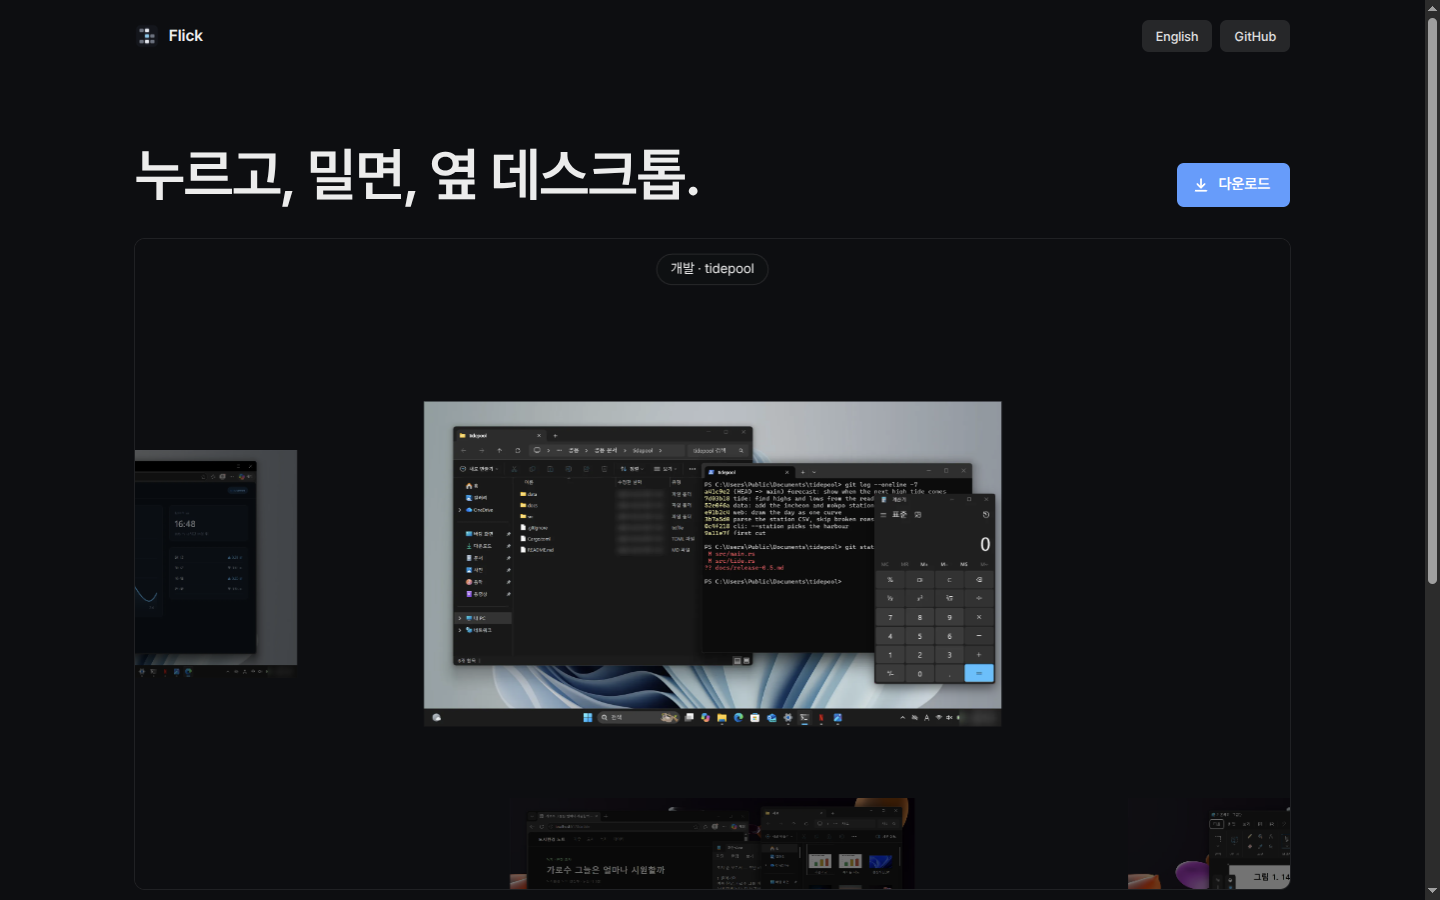
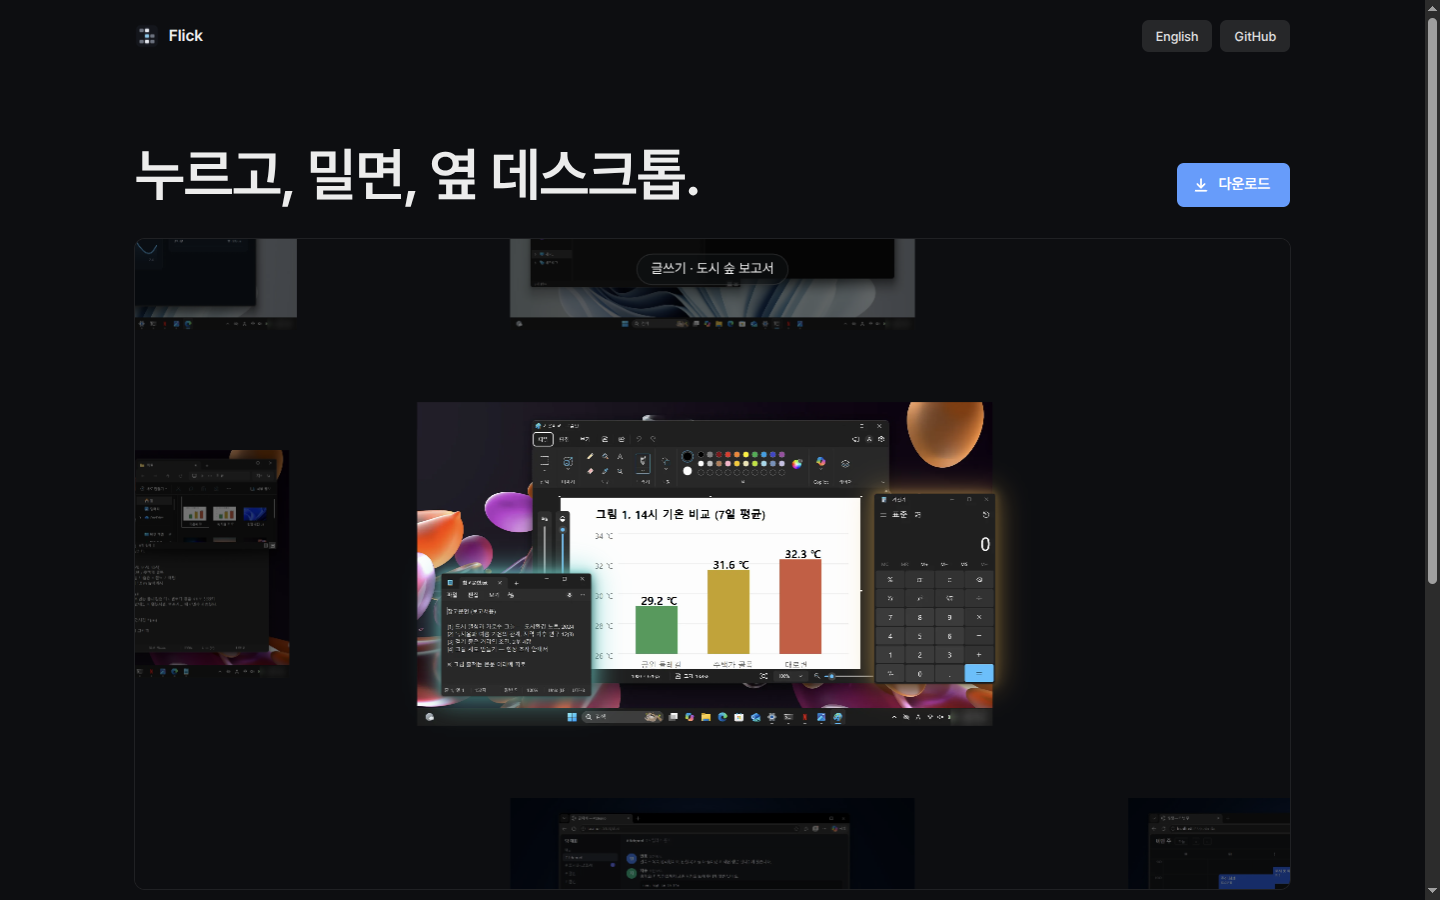
The demo goes round every desktop and shelf in a longer loop of different moves, and the window pinned to the writing shelf stays put in its teal light while that shelf slides under it

diff --git a/docs/index.html b/docs/index.html
@@ -216,22 +216,34 @@ function icon(g, app, x, y, k) {
   fill(g, x, y, k, k, k * .24, TONE[app]);
 }
 
-/* ---------- the loop: hold, flick right, right, down, let go; tap for the board; back again ---------- */
+/* ---------- the loop: every desktop and every shelf, no move made twice the same way ----------
+   A flick with the button up slides the screens full size; held, they recede and the hand drags them.
+   The writing shelf's references stay put while that shelf's desktops slide under them, and leave with it. */
 const SCRIPT = [
-  [.15, h => h.press()],
-  [.45, h => h.drag(1, 0)],
-  [.85, h => h.drag(1, 0)],
-  [1.4, h => h.drag(0, 1)],
-  [2.0, h => h.release()],
-  [2.75, h => h.tap()],
-  [5.2, h => h.tap()],
-  [5.75, h => h.press()],
-  [6.05, h => h.drag(0, -1)],
-  [6.6, h => h.drag(-1, 0)],
-  [7.0, h => h.drag(-1, 0)],
-  [7.5, h => h.release()],
+  [.4, h => h.drag(1, 0)],                       // a quick flick: building, to the preview
+  [2.2, h => h.drag(1, 0)],                      // and on to the project folder
+  [3.9, h => h.press()],                         // held: the shelves recede
+  [4.3, h => h.drag(0, 1)],                      // down to the writing shelf, its references with it
+  [5.1, h => h.drag(1, 0)],                      // the desktops slide; the references stay
+  [5.9, h => h.drag(-1, 0)],                     // and back
+  [6.6, h => h.release()],
+  [8.1, h => h.tap()],                           // the board: what is pinned where
+  [11.0, h => h.tap()],
+  [12.0, h => h.drag(1, 0)],                     // full size: the chart slides in, the references stay
+  [13.8, h => h.press()],
+  [14.2, h => h.drag(0, 1)],                     // down to the team's shelf: the references go with theirs
+  [15.0, h => h.drag(1, 0)],
+  [15.7, h => h.release()],
+  [17.6, h => h.drag(-1, 0)],                    // a quick flick back to the chat
+  [19.4, h => h.drag(0, -1)],                    // up, full size: the references come back
+  [21.0, h => h.drag(-1, 0)],
+  [22.7, h => h.press()],
+  [23.1, h => h.drag(0, -1)],                    // up to building, then two desktops along it
+  [23.8, h => h.drag(-1, 0)],
+  [24.3, h => h.drag(-1, 0)],
+  [25.0, h => h.release()],
 ];
-const LOOP = 8.6;
+const LOOP = 27.5;
 /* Springs, a little under-damped: quick to go, a few per cent past, quick to settle. */
 const MOVE = { w: 24, z: .74 }, DEPTH = { w: 22, z: .7 }, BOARD = { w: 20, z: .72 };
 function spring(s, to, dt, { w, z }) {
@@ -248,7 +260,7 @@ class Hero {
     this.t = 0; this.si = 0;
     this.row = 0; this.col = 0; this.last = SHELVES.map(() => 0);
     this.sx = { p: 0, v: 0 }; this.sy = { p: 0, v: 0 }; this.tx = 0; this.ty = 0;   // where the strip is: column on the current shelf, and shelf
-    this.held = false; this.depth = { p: 0, v: 0 };
+    this.held = false; this.depth = { p: 0, v: 0 }; this.arrived = -9;   // when the pinned shelf was last come to
     this.board = { open: false, s: { p: 0, v: 0 } };
   }
   get x() { return this.sx.p; }
@@ -282,7 +294,7 @@ class Hero {
     /* The strip springs to where the hand sent it; the desktop it is nearest is the one chosen. */
     spring(this.sy, this.ty, dt, MOVE);
     const row = clamp(Math.round(this.y), 0, SHELVES.length - 1);
-    if (row !== this.row) { this.last[this.row] = this.col; this.row = row; this.col = this.last[row]; this.tx = this.col; this.sx = { p: this.col, v: 0 }; }
+    if (row !== this.row) { if (row === PINNED_ROW.row) this.arrived = this.t; this.last[this.row] = this.col; this.row = row; this.col = this.last[row]; this.tx = this.col; this.sx = { p: this.col, v: 0 }; }
     spring(this.sx, this.tx, dt, MOVE);
     this.col = clamp(Math.round(this.x), 0, SHELVES[this.row].length - 1);
     /* Held, the screen recedes; let go, the chosen desktop comes forward. */
@@ -333,15 +345,18 @@ class Hero {
       if (p.dark > 0) { g.fillStyle = `rgba(0,0,0,${p.dark})`; g.fillRect(p.x, p.y, w, h); }
     }));
     /* Pinned windows stay where they are sideways; those of a shelf go up and down with it. */
-    const pinned = (win, ay) => {
-      const p = this.place(0, ay), [x, y, w, h] = this.onStage(win.r);
+    /* Each with its pin's light round it, no box: teal for this shelf, brighter as the shelf is come to; amber for every shelf. */
+    const pinned = (win, ay, colour, a) => {
+      const p = this.place(0, ay), [x, y, w, h] = this.onStage(win.r), s = sc;
       g.save(); g.translate(p.x, p.y); g.scale(p.k, p.k);
+      const lit = colour(clamp(a, 0, 1) * clamp(1 - Math.abs(ay), 0, 1));
+      glow(g, x - 10 * s, y - 10 * s, w + 20 * s, h + 20 * s, 18 * s, 90 * s, lit); glow(g, x - 3 * s, y - 3 * s, w + 6 * s, h + 6 * s, 10 * s, 28 * s, lit);
       this.paintShot(g, win, win, x, y, w, h, 1);
       if (p.dark > 0) fill(g, x, y, w, h, 8 * sc, `rgba(0,0,0,${p.dark})`);
       g.restore();
     };
-    if (Math.abs(PINNED_ROW.row - this.y) < 1.5) pinned(PINNED_ROW, PINNED_ROW.row - this.y);
-    pinned(PINNED_ALL, 0);
+    if (Math.abs(PINNED_ROW.row - this.y) < 1.5) pinned(PINNED_ROW, PINNED_ROW.row - this.y, onRow, .55 + .45 * Math.exp(-(this.t - this.arrived) / 1.2));
+    pinned(PINNED_ALL, 0, everywhere, .42);
     if (this.receded > .01) this.drawBanner();
   }
   /* glide.rs Banner: the shelf's name in a pill above the picture, the names sliding as the shelf changes. */
